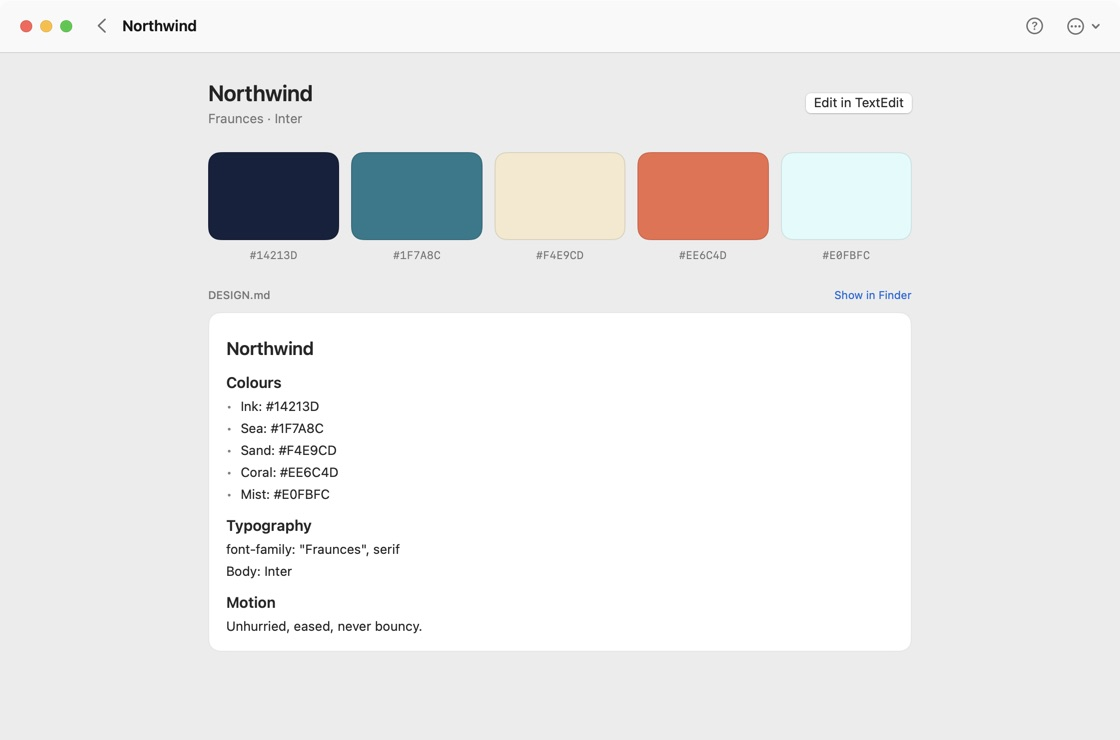
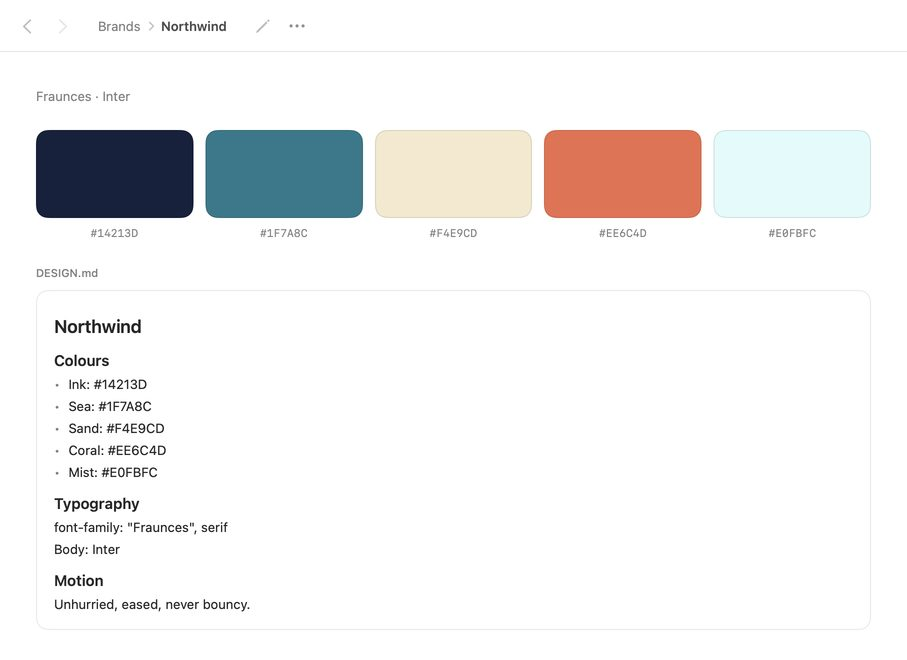
Site: current Studio screens throughout (Home with the crew, the five call stages, Brands, Setup, Finished); the film-types list replaces the design-specimen gallery

diff --git a/docs/index.html b/docs/index.html
@@ -96,7 +96,7 @@
 </section>
 
 <section class="shot-band"><div class="wrap">
-  <div class="window rise" data-rise><img src="img/studio/home-1x.jpg" srcset="img/studio/home-1x.jpg 1120w, img/studio/home-2x.jpg 2240w" sizes="(min-width:1100px) 1100px, 94vw" width="2240" height="1480" alt="RasanAI Studio home screen: What shall we make today? A New film tile above a grid of your films, with sample projects." loading="lazy" decoding="async" /></div>
+  <div class="window rise" data-rise><img src="img/studio/home-1x.jpg" srcset="img/studio/home-1x.jpg 907w, img/studio/home-2x.jpg 1814w" sizes="(min-width:1100px) 900px, 94vw" width="1814" height="1480" alt="RasanAI Studio, the start screen: What would you like to make? The seven crew characters stand on the prompt box, which reads Describe your video, or paste a link, with the steps Describe, Setup, Brief, Story, Look, Preview and Final above." loading="lazy" decoding="async" /></div>
   <p class="shot-note">Screens from the app, with sample projects.</p>
 </div></section>
 
@@ -123,13 +123,7 @@
           <p><b>Confirm the sentence.</b> One line you can edit, and what RasanAI understood from it. Tara scouts your product and brings it back for you to check.</p>
         </div>
         <div class="fwin">
-          <div class="wshot"><img src="img/studio/call-brief.jpg" width="1040" height="560" loading="lazy" decoding="async" alt="Brief: one sentence of what RasanAI understood, each part editable in place" /></div>
-          <div class="ov brief-card">
-            <p class="bc-h">Here&rsquo;s what we&rsquo;re making</p>
-            <p class="bc-s">A <span class="tok" data-t="0">45-second</span> <span class="tok" data-t="1">product launch</span> for Tally, the receipt app that files itself, <span class="tok" data-t="2">16:9</span> for <span class="tok" data-t="3">website</span>, <span class="tok" data-t="4">with voiceover</span>, <span class="tok" data-t="5">in Northwind&rsquo;s own colours and type</span>.</p>
-            <p class="bc-n">Click any highlighted part to change it.</p>
-          </div>
-          <div class="ov tag found"><i></i>Tara &middot; found 14 product screens</div>
+          <div class="wshot"><img src="img/studio/call-brief-1x.jpg" srcset="img/studio/call-brief-1x.jpg 1120w, img/studio/call-brief-2x.jpg 2240w" sizes="(min-width:900px) 760px, 94vw" width="2240" height="1480" loading="lazy" decoding="async" alt="Brief screen: Tara has written the idea as one sentence, A 45-second product launch for Tally, with highlighted words you can change, Format, Length, Shape, Destination, Voiceover and Brand fields, and the product screens found. Confirm brief is the main button." /></div>
         </div>
       </li>
       <li class="fstep" data-unit="story">
@@ -139,12 +133,7 @@
           <p><b>Pick one of three.</b> Three scripts, written from your product&rsquo;s truth. Choose, or ask for another take.</p>
         </div>
         <div class="fwin">
-          <div class="wshot"><img src="img/studio/call-story.jpg" width="1040" height="560" loading="lazy" decoding="async" alt="Script: three stories, the selected one as a table of timed beats" /></div>
-          <div class="ov story-row">
-            <div class="sc" data-s="0"><small>Sure</small><b>The disappearing receipt</b></div>
-            <div class="sc" data-s="1"><small>Bold</small><b>Twelve small victories</b></div>
-            <div class="sc" data-s="2"><small>Wild</small><b>A receipt&rsquo;s last day</b></div>
-          </div>
+          <div class="wshot"><img src="img/studio/call-story-1x.jpg" srcset="img/studio/call-story-1x.jpg 1120w, img/studio/call-story-2x.jpg 2240w" sizes="(min-width:900px) 760px, 94vw" width="2240" height="1480" loading="lazy" decoding="async" alt="Story screen: three scripts to pick from, The disappearing receipt, Twelve small victories (selected, Claude's pick) and A receipt's last day, with the selected script shown as timed beats from 0:00 to 0:45. Use this story is the main button." /></div>
         </div>
       </li>
       <li class="fstep" data-unit="look">
@@ -154,13 +143,7 @@
           <p><b>Pick one of three.</b> Three design systems made for that story, each drawn live on its first line.</p>
         </div>
         <div class="fwin">
-          <div class="wshot"><img src="img/studio/call-look.jpg" width="1040" height="560" loading="lazy" decoding="async" alt="Look: Claude's recommended design, The Museum of the Detour, shown large beside its name and reasoning" /></div>
-          <svg class="ov look-ring" viewBox="0 0 100 54" preserveAspectRatio="none" aria-hidden="true"><rect x="3.2" y="21.5" width="60" height="32" rx="1.4" pathLength="100"/></svg>
-          <div class="ov looks">
-            <div class="lk" data-l="0" style="--g:linear-gradient(135deg,#1f5a43,#0e3326)"><i></i><span>Look 1</span></div>
-            <div class="lk" data-l="1" style="--g:linear-gradient(135deg,#d9c9a3,#8a5a3a)"><i></i><span>Look 2</span></div>
-            <div class="lk" data-l="2" style="--g:linear-gradient(135deg,#2a31a8,#11163f)"><i></i><span>Look 3</span></div>
-          </div>
+          <div class="wshot"><img src="img/studio/call-look-1x.jpg" srcset="img/studio/call-look-1x.jpg 1120w, img/studio/call-look-2x.jpg 2240w" sizes="(min-width:900px) 760px, 94vw" width="2240" height="1480" loading="lazy" decoding="async" alt="Look screen: Which look fits this story? The recommended look, Ledger, is shown large beside its name, a colour palette and a type style. Use this look is the main button." /></div>
         </div>
       </li>
       <li class="fstep" data-unit="animatic">
@@ -170,9 +153,7 @@
           <p><b>Watch the rhythm.</b> The whole film, rough, with music. Pin a note to any moment.</p>
         </div>
         <div class="fwin">
-          <div class="wshot"><img src="img/studio/call-animatic.jpg" width="1040" height="560" loading="lazy" decoding="async" alt="Animatic: the timed film with music, a scrubber, the scene strip and notes pinned to moments" /></div>
-          <div class="ov ph"><i></i><b>0:00</b></div>
-          <div class="ov pin-drop"><span>1</span></div>
+          <div class="wshot"><img src="img/studio/call-animatic-1x.jpg" srcset="img/studio/call-animatic-1x.jpg 1120w, img/studio/call-animatic-2x.jpg 2240w" sizes="(min-width:900px) 760px, 94vw" width="2240" height="1480" loading="lazy" decoding="async" alt="Animatic screen: Watch the first cut. A timing preview with a scrubber and play controls, a Note button, music and voice pickers, and six scene thumbnails with notes marked on two of them. Apply 2 notes is the main button." /></div>
         </div>
       </li>
       <li class="fstep" data-unit="final">
@@ -182,8 +163,7 @@
           <p><b>Review. Export.</b> The finished film, with your notes and every version kept. Rasika checks it first and sends back what is off.</p>
         </div>
         <div class="fwin">
-          <div class="wshot"><img src="img/studio/call-final.jpg" width="1040" height="560" loading="lazy" decoding="async" alt="Final: the render with versions, what changed and notes" /></div>
-          <div class="ov render"><p><span class="r-l">Rendering the final</span><b class="r-p">0%</b></p><div class="bar"><i></i></div><p class="r-ok"><svg aria-hidden="true"><use href="#i-check"/></svg>Ready for your review</p></div>
+          <div class="wshot"><img src="img/studio/call-final-1x.jpg" srcset="img/studio/call-final-1x.jpg 1120w, img/studio/call-final-2x.jpg 2240w" sizes="(min-width:900px) 760px, 94vw" width="2240" height="1480" loading="lazy" decoding="async" alt="Final screen: Ready to render. A poster of the film, a scrubber, six scene thumbnails, What changed in v2, a version picker and Render the final now. Preview first is the main button." /></div>
         </div>
       </li>
     </ol>
@@ -280,7 +260,7 @@ colors:
   coral: "#EE6C4D"
 type: Fraunces / Inter
 motion: unhurried, eased, never bouncy</pre></div>
-        <div class="pop pop-nw" data-p="1"><img src="img/studio/brand-1x.jpg" width="1120" height="740" loading="lazy" decoding="async" alt="A brand in RasanAI Studio: Northwind, with five colour swatches, its type, and its DESIGN.md." /></div>
+        <div class="pop pop-nw" data-p="1"><img src="img/studio/brand-1x.jpg" srcset="img/studio/brand-1x.jpg 907w, img/studio/brand-2x.jpg 1814w" sizes="330px" width="1814" height="1320" loading="lazy" decoding="async" alt="A brand in RasanAI Studio: Northwind, with five colour swatches (#14213D, #1F7A8C, #F4E9CD, #EE6C4D, #E0FBFC), Fraunces and Inter, and its DESIGN.md." /></div>
         <div class="pop pop-ft" data-p="2"><p class="mono">Footage folder</p><div class="frames"><i style="--g:linear-gradient(135deg,#f6d9b8,#7da3b8)"></i><i style="--g:linear-gradient(135deg,#ee6c4d,#14213d)"></i><i style="--g:linear-gradient(135deg,#1f7a8c,#f4e9cd)"></i></div><p class="pf">Mala &middot; logged 38 clips, 9 selects</p></div>
       </div>
     </div>
@@ -346,19 +326,27 @@ motion: unhurried, eased, never bouncy</pre></div>
 
 <section class="section" id="gallery"><div class="wrap">
   <div class="head rv"><p class="eyebrow">What it makes</p><h2>Films with a<br />point of view.</h2><p class="lede">Launch films, explainers, product and PR videos, brand films, music videos, reels and motion graphics. Real 3D where it helps.</p></div>
-  <div class="visual-grid">
-    <figure class="visual-feature rv"><img src="img/desk-counting-house.jpg" width="1600" height="900" loading="lazy" alt="Counting House design specimen: bold type on ledger paper with a red checked stamp" /><figcaption><b>Print with personality</b><span>Counting House / design specimen</span></figcaption></figure>
-    <figure class="rv"><img src="img/open3d-engraved.jpg" width="1600" height="900" loading="lazy" alt="Three-dimensional forms rendered as a black engraving on cream paper" /><figcaption><b>Depth, drawn differently</b><span>Engraved 3D / test scene</span></figcaption></figure>
-    <figure class="rv"><img src="img/brand-board.jpg" width="1600" height="900" loading="lazy" alt="Tally brand board showing typography, a mint accent and colors by role" /><figcaption><b>Still unmistakably you</b><span>Your brand / reference board</span></figcaption></figure>
+  <div class="ftypes">
+    <ol class="ft-list">
+      <li class="rv"><span class="ft-n">01</span><div><h3>Launch films</h3><p>A product launch from a sentence or a link, in your brand&rsquo;s own colours and type.</p></div></li>
+      <li class="rv"><span class="ft-n">02</span><div><h3>Explainers</h3><p>A topic or a script, turned into a film that explains it.</p></div></li>
+      <li class="rv"><span class="ft-n">03</span><div><h3>Product and PR videos</h3><p>Your product&rsquo;s real screens and story, cut to the length you choose.</p></div></li>
+      <li class="rv"><span class="ft-n">04</span><div><h3>Brand films</h3><p>Your brand kept as a DESIGN.md, so every film looks like you.</p></div></li>
+      <li class="rv"><span class="ft-n">05</span><div><h3>Music videos</h3><p>Motion timed to the track, with the animatic to check the rhythm first.</p></div></li>
+      <li class="rv"><span class="ft-n">06</span><div><h3>Reels from footage</h3><p>Point it at a folder of clips. Mala logs them and picks the selects.</p></div><img class="ft-card" src="assets/crew/v2/card-mala.webp" width="576" height="720" alt="Mala, the Editor, in a pale blue body wrapped in a strip of 35 mm film." loading="lazy" decoding="async" /></li>
+      <li class="rv"><span class="ft-n">07</span><div><h3>Presenter films</h3><p>You on a green screen, in a world made for the words.</p></div></li>
+      <li class="rv"><span class="ft-n">08</span><div><h3>Motion graphics</h3><p>Short animated titles, cards and callouts, turned up as far as you like.</p></div></li>
+    </ol>
+    <figure class="ft-shot rv"><div class="window"><img src="img/studio/setup-1x.jpg" srcset="img/studio/setup-1x.jpg 907w, img/studio/setup-2x.jpg 1814w" sizes="(min-width:900px) 520px, 94vw" width="1814" height="1480" loading="lazy" decoding="async" alt="RasanAI Studio, the Setup step: a Northwind launch film with Film type set to Launch film, Duration 30 seconds and Shape Landscape 16:9, then the brief, materials and a Start film button." /></div><figcaption>Setup: you choose the film type, the length and the shape.</figcaption></figure>
   </div>
-  <div class="section-bottom"><p>Design specimens and test frames, not finished customer films.</p><a class="link" href="guide.html#library">Explore the style library &rarr;</a></div>
+  <div class="section-bottom"><p>Screens from the app, with sample projects.</p><a class="link" href="guide.html#library">Explore the style library &rarr;</a></div>
 </div></section>
 
 <section class="section tint finished" id="finished"><div class="wrap center">
   <div class="rv"><p class="eyebrow">Finished</p>
   <h2>Watch it. Export it.</h2>
   <p class="lede">Play the film right in the app, then export it. If something is off, say so and RasanAI makes the change.</p></div>
-  <div class="window rise" data-rise><img src="img/studio/film-finished-1x.jpg" srcset="img/studio/film-finished-1x.jpg 1120w, img/studio/film-finished-2x.jpg 2240w" sizes="(min-width:1100px) 900px, 94vw" width="2240" height="1480" alt="A finished film in RasanAI Studio with a play button and Export, Show in Finder and Make changes buttons." loading="lazy" decoding="async" /></div>
+  <div class="window rise" data-rise><img src="img/studio/film-finished-1x.jpg" srcset="img/studio/film-finished-1x.jpg 907w, img/studio/film-finished-2x.jpg 1814w" sizes="(min-width:1100px) 900px, 94vw" width="1814" height="1480" alt="RasanAI Studio, a finished film: Ready for the world. The final film, Spring launch film, 45 seconds at 16:9, sits in a large player with its references listed below." loading="lazy" decoding="async" /></div>
 </div></section>
 
 <!-- 8. END CARD -->

diff --git a/docs/assets/home.css b/docs/assets/home.css
@@ -106,70 +106,18 @@
 .fcopy p b { color: var(--graphite); font-weight: 600; }
 .fwin { position: relative; container-type: inline-size; width: 100%; align-self: center; }
 .wshot { border-radius: 12px; overflow: hidden; background: #262628; box-shadow: 0 0 0 1px rgba(27, 31, 94, .18), 0 28px 60px -30px rgba(27, 31, 94, .5); }
-.wshot img { display: block; width: 100%; height: auto; aspect-ratio: 1040 / 560; }
+.wshot img { display: block; width: 100%; height: auto; aspect-ratio: 1120 / 740; }
 .frail { display: none; }
-.ov { position: absolute; }
-
-/* overlays: all sizes in container units so they scale with the window */
-.brief-card { left: 3%; top: 29%; width: 94%; height: 43%; background: #2a2a2c; border: 1px solid #3a3a3e; border-radius: 2.2cqw; padding: 2.4cqw 3cqw; color: #e9e9ee; }
-.bc-h { display: none; }
-.bc-s { margin: 0; font: 400 3.5cqw/1.5 "New York", "Iowan Old Style", Georgia, serif; color: #e9e9ee; }
-.bc-n { margin: 1.6cqw 0 0; font: 400 1.7cqw/1.2 var(--body); color: #9a9aa2; }
-.tok { position: relative; padding: 0 .25em; margin: 0 -.05em; color: #fff; }
-.tok::before { content: ""; position: absolute; inset: 0 0 -1px; border-radius: .25em; background: rgba(124, 131, 245, .28); box-shadow: inset 0 -1.5px #7c83f5; opacity: 0; transition: opacity .35s; }
-.tok.on::before { opacity: 1; }
-.tag { display: flex; align-items: center; gap: 1.6cqw; background: var(--paper); color: var(--indigo); border-radius: 999px; font: 600 2.1cqw/1 var(--body); padding: 1.5cqw 2.6cqw; box-shadow: 0 8px 22px -10px rgba(27, 31, 94, .45), 0 0 0 1px var(--line-light); opacity: 0; transform: translateY(14px); transition: opacity .4s, transform .5s cubic-bezier(.2, .8, .2, 1); }
-.tag.on { opacity: 1; transform: none; }
-.tag i { width: 1.6cqw; height: 1.6cqw; border-radius: 50%; background: #2A31A8; }
-.found { right: 3%; bottom: -3%; }
-
-.story-row { left: 7.4%; top: 35.6%; width: 85.2%; height: 17.4%; background: #262628; display: grid; grid-template-columns: repeat(3, 1fr); gap: 1.4cqw; }
-.sc { background: #313134; border-radius: 1.4cqw; padding: 1.8cqw 2.2cqw; display: flex; flex-direction: column; gap: .8cqw; color: #d8d8dd; opacity: 0; transform: translateY(2.6cqw); transition: opacity .4s, transform .5s cubic-bezier(.2, .8, .2, 1), background .3s, box-shadow .3s; }
-.sc.on { opacity: 1; transform: none; }
-.sc small { font: 500 1.35cqw/1 var(--mono); letter-spacing: .14em; text-transform: uppercase; color: #9a9aa2; }
-.sc b { font: 600 2.1cqw/1.25 var(--body); }
-.sc.sel { background: #0e0e10; box-shadow: inset 0 0 0 .22cqw #f1f0ec; color: #fff; }
-.sc.dim { opacity: .55; }
-
-.look-ring { left: 0; top: 0; width: 100%; height: 100%; pointer-events: none; overflow: visible; }
-.look-ring rect { fill: none; stroke: #EFB21A; stroke-width: 3; vector-effect: non-scaling-stroke; stroke-dasharray: 100; stroke-dashoffset: 100; transition: stroke-dashoffset .9s cubic-bezier(.4, 0, .2, 1); }
-.look-ring.on rect { stroke-dashoffset: 0; }
-.looks { right: -2.5%; bottom: -6%; display: flex; gap: 1.6cqw; background: var(--paper); padding: 1.6cqw; border-radius: 2cqw; box-shadow: 0 14px 34px -14px rgba(27, 31, 94, .5), 0 0 0 1px var(--line-light); opacity: 0; transform: translateY(16px); transition: opacity .4s, transform .5s cubic-bezier(.2, .8, .2, 1); }
-.looks.on { opacity: 1; transform: none; }
-.lk { width: 13cqw; text-align: center; font: 500 1.5cqw/1 var(--mono); letter-spacing: .1em; text-transform: uppercase; color: var(--ink-2); opacity: 0; transform: scale(.8); transition: opacity .35s, transform .45s cubic-bezier(.2, .9, .3, 1.2); }
-.lk.on { opacity: 1; transform: none; }
-.lk i { display: block; aspect-ratio: 4 / 3; border-radius: 1cqw; background: var(--g); margin-bottom: 1cqw; }
-.lk.pick i { box-shadow: 0 0 0 .3cqw var(--paper), 0 0 0 .6cqw var(--rasanai-blue); }
-.lk.pick { color: var(--indigo); }
-
-.ph { left: 5.2%; top: 79.4%; width: 0; height: 10%; will-change: transform; }
-.ph i { position: absolute; left: -.2cqw; top: 0; width: .4cqw; height: 100%; background: #EFB21A; border-radius: 1cqw; box-shadow: 0 0 0 .2cqw rgba(0,0,0,.35); }
-.ph b { position: absolute; left: 50%; top: -3.8cqw; transform: translateX(-50%); background: #EFB21A; color: #15151c; font: 600 1.7cqw/1 var(--mono); padding: .7cqw 1.2cqw; border-radius: .8cqw; white-space: nowrap; }
-.pin-drop { left: 17.2%; top: 73%; transform: translate(-50%, -3cqw) scale(.4); opacity: 0; transition: opacity .25s, transform .5s cubic-bezier(.2, 1.4, .4, 1); }
-.pin-drop.on { opacity: 1; transform: translate(-50%, 0) scale(1); }
-.pin-drop span { display: grid; place-items: center; width: 3.6cqw; height: 3.6cqw; border-radius: 50% 50% 50% 0; transform: rotate(-45deg); background: #7c83f5; box-shadow: 0 0 0 .3cqw #15151c; }
-.pin-drop span { font: 700 1.8cqw/1 var(--body); color: #fff; }
-
-.render { left: 16%; top: 50%; width: 36%; background: #1d1d20; border: 1px solid #3a3a3e; border-radius: 1.8cqw; padding: 2.2cqw 2.6cqw; color: #f1f0ec; box-shadow: 0 16px 34px -16px rgba(0, 0, 0, .7); }
-.render p { margin: 0; display: flex; justify-content: space-between; font: 500 2cqw/1 var(--body); }
-.render .r-p { font-family: var(--mono); font-weight: 500; }
-.bar { height: 1.1cqw; margin: 1.8cqw 0 0; background: #3a3a3e; border-radius: 1cqw; overflow: hidden; }
-.bar i { display: block; height: 100%; width: 100%; background: #7c83f5; transform-origin: left; transform: scaleX(0); border-radius: 1cqw; will-change: transform; }
-.render .r-ok { display: none; justify-content: flex-start; align-items: center; gap: 1cqw; margin-top: 1.6cqw; color: #8fe0b0; font-weight: 600; }
-.render .r-ok svg { width: 2.4cqw; height: 2.4cqw; }
-.render.done .r-ok { display: flex; }
-.render.done .bar i { background: #5fcf8f; }
 
 @media (min-width: 900px) {
   .fstep { grid-template-columns: minmax(0, .7fr) minmax(0, 1.4fr); gap: clamp(32px, 4vw, 64px); padding-top: 28px; padding-bottom: 28px; }
   .fwho img { height: min(34vh, 300px); }
-  .fwin { max-width: min(100%, calc((100vh - 280px) * 1.857)); justify-self: end; }
+  .fwin { max-width: min(100%, calc((100vh - 280px) * 1.514)); justify-self: end; }
 }
 .fstep + .fstep { border-top: 1px solid var(--line-light); }
 @media (max-width: 899px) {
   .fstep { padding-top: 48px; padding-bottom: 48px; }
   .fwin { margin-top: 8px; }
-  .found { right: 2%; bottom: -5%; }
 }
 .pin .flow { height: 640vh; }
 .pin .flow .sticky { position: sticky; top: 0; height: 100vh; overflow: hidden; }
@@ -343,13 +291,17 @@
 .quad span { color: var(--on-indigo-2); font-size: 1.0625rem; line-height: 1.5; }
 #presenter .head { max-width: 62rem; margin-bottom: 0; }
 #presenter .lede { max-width: 56rem; font-size: clamp(1.25rem, 2.2vw, 1.875rem); line-height: 1.38; color: var(--indigo); }
-.visual-grid { display: grid; grid-template-columns: minmax(0, 1fr) minmax(0, 1fr); gap: 24px; }
-.visual-grid figure { margin: 0; min-width: 0; }
-.visual-grid img { display: block; width: 100%; height: auto; aspect-ratio: 16/9; object-fit: cover; border-radius: var(--r-card); background: var(--rice-2); box-shadow: 0 0 0 1px var(--line-light); }
-.visual-grid .visual-feature { grid-column: 1 / -1; }
-.visual-grid figcaption { display: flex; flex-direction: column; margin-top: 14px; line-height: 1.3; gap: 4px; }
-.visual-grid figcaption b { font: 600 1.25rem/1.2 var(--display); color: var(--indigo); }
-.visual-grid figcaption span { color: var(--ink-2); font: 500 .75rem/1.4 var(--mono); letter-spacing: .12em; text-transform: uppercase; }
+.ftypes { display: grid; gap: 40px; align-items: start; }
+.ft-list { list-style: none; margin: 0; padding: 0; counter-reset: ft; }
+.ft-list li { display: grid; grid-template-columns: 2.4rem minmax(0, 1fr) auto; gap: 16px; align-items: center; padding: 18px 0; border-top: 1px solid var(--line-light); }
+.ft-list li:last-child { border-bottom: 1px solid var(--line-light); }
+.ft-n { font: 500 .75rem/1 var(--mono); letter-spacing: .12em; color: var(--ink-2); }
+.ft-list h3 { font: 600 clamp(1.25rem, 2vw, 1.625rem)/1.15 var(--display); color: var(--indigo); margin: 0 0 4px; }
+.ft-list p { margin: 0; color: var(--ink-2); line-height: 1.45; }
+.ft-card { width: 56px; height: auto; border-radius: 10px; }
+.ft-shot { margin: 0; }
+.ft-shot figcaption { margin-top: 14px; font-size: .9rem; color: var(--ink-2); }
+@media (min-width: 900px) { .ftypes { grid-template-columns: minmax(0, 1fr) minmax(0, 520px); gap: clamp(40px, 6vw, 88px); } .ft-shot { position: sticky; top: 96px; } }
 .section-bottom { display: flex; align-items: baseline; justify-content: space-between; gap: 20px; margin-top: 32px; }
 .section-bottom p { font-size: .9375rem; color: var(--ink-2); margin: 0; }
 .section-bottom a { white-space: nowrap; }
@@ -412,12 +364,9 @@
 .js .rv.in, .calm .rv { opacity: 1; transform: none; }
 .pin .rise { will-change: transform; }
 .calm *, .calm *::before, .calm *::after { transition: none !important; }
-.calm .tag, .calm .looks, .calm .lk, .calm .pop, .calm .pin-drop, .calm .sc, .calm .nf-file, .calm .ch, .calm .go { opacity: 1; transform: none; }
+.calm .pop, .calm .nf-file, .calm .ch, .calm .go { opacity: 1; transform: none; }
 .calm .hb { opacity: 1; }
-.calm .pin-drop { transform: translate(-50%, 0); }
 @media (min-width: 900px) { .calm .hb { transform: translate(-50%, -50%) translate(var(--bx), var(--by)); } }
-.calm .look-ring rect { stroke-dashoffset: 0; }
-.calm .bar i { transform: none; }
 
 @media (max-width: 899px) {
   .home .nav { padding-left: 16px; }
@@ -430,8 +379,7 @@
   .ra-intro { grid-template-columns: 1fr; justify-items: start; }
   .ra-pose { width: 190px; }
   .quad { grid-template-columns: 1fr 1fr; gap: 28px; }
-  .visual-grid, .dl-grid, .skill-grid { grid-template-columns: 1fr; }
-  .section-bottom { flex-direction: column; align-items: flex-start; }
+    .section-bottom { flex-direction: column; align-items: flex-start; }
   .end-copy { padding-top: 180px; }
   .end-img { object-position: 78% 100%; }
   .endcard { align-items: flex-start; min-height: 720px; }

diff --git a/docs/assets/home.js b/docs/assets/home.js
@@ -32,46 +32,8 @@
 
   /* ---------- unit renderers: render(q), q in 0..1; discrete states are class toggles with CSS transitions ---------- */
   var R = {};
-  R.brief = function (el) {
-    var toks = $$(".tok", el), tag = $(".found", el);
-    return function (q) { toks.forEach(function (t, i) { tog(t, q > .1 + i * .1); }); tog(tag, q > .78); };
-  };
-  R.story = function (el) {
-    var cs = $$(".sc", el);
-    return function (q) {
-      cs.forEach(function (c, i) {
-        tog(c, q > .06 + i * .13);
-        var picked = q > .62;
-        c.classList.toggle("sel", picked && i === 1); c.classList.toggle("dim", picked && i !== 1);
-      });
-    };
-  };
-  R.look = function (el) {
-    var lks = $$(".lk", el), panel = $(".looks", el), ring = $(".look-ring", el);
-    return function (q) {
-      tog(panel, q > .05); lks.forEach(function (l, i) { tog(l, q > .1 + i * .1); });
-      lks[0].classList.toggle("pick", q > .6); tog(ring, q > .32);
-    };
-  };
-  R.animatic = function (el) {
-    var ph = $(".ph", el), t = $(".ph b", el), pin = $(".pin-drop", el), last = "";
-    return function (q) {
-      var s = ease(seg(q, .08, .92));
-      ph.style.transform = "translateX(" + (s * 59.5).toFixed(2) + "cqw)";
-      var sec = Math.round(s * 45), txt = "0:" + (sec < 10 ? "0" : "") + sec;
-      if (txt !== last) { t.textContent = txt; last = txt; }
-      tog(pin, s >= 0.2);
-    };
-  };
-  R.final = function (el) {
-    var box = $(".render", el), bar = $(".bar i", el), pc = $(".r-p", el), lab = $(".r-l", el), last = -1;
-    return function (q) {
-      var s = seg(q, .1, .78);
-      bar.style.transform = "scaleX(" + s.toFixed(3) + ")";
-      var n = Math.round(s * 100); if (n !== last) { pc.textContent = n >= 100 ? "Ready" : n + "%"; lab.textContent = n >= 100 ? "Final render" : "Rendering the final"; last = n; }
-      box.classList.toggle("done", s >= 1);
-    };
-  };
+  /* the five call screens are the real Studio screens: nothing is drawn on top of them */
+  R.brief = R.story = R.look = R.animatic = R.final = function () { return function () {}; };
   R.notify = function (el) {
     var nts = $$(".nt", el), step = 92;
     return function (q) {
